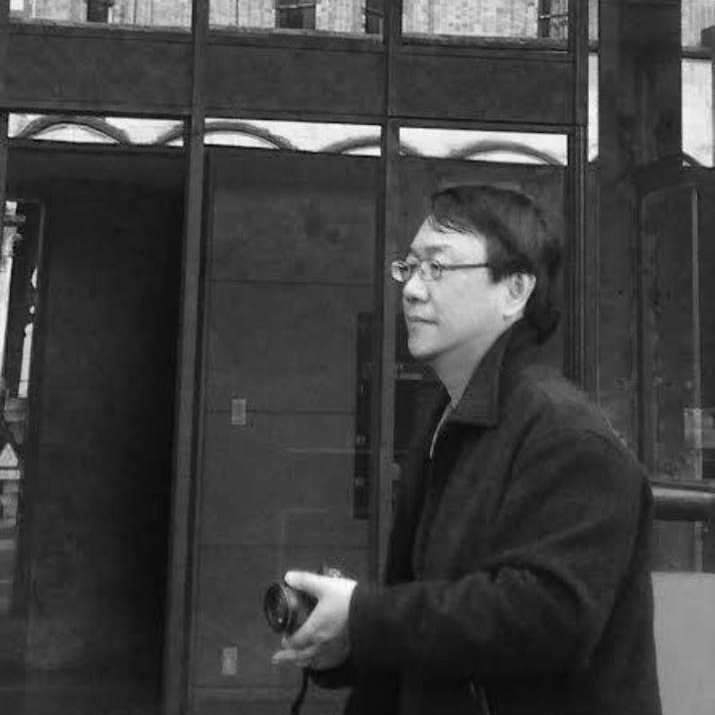
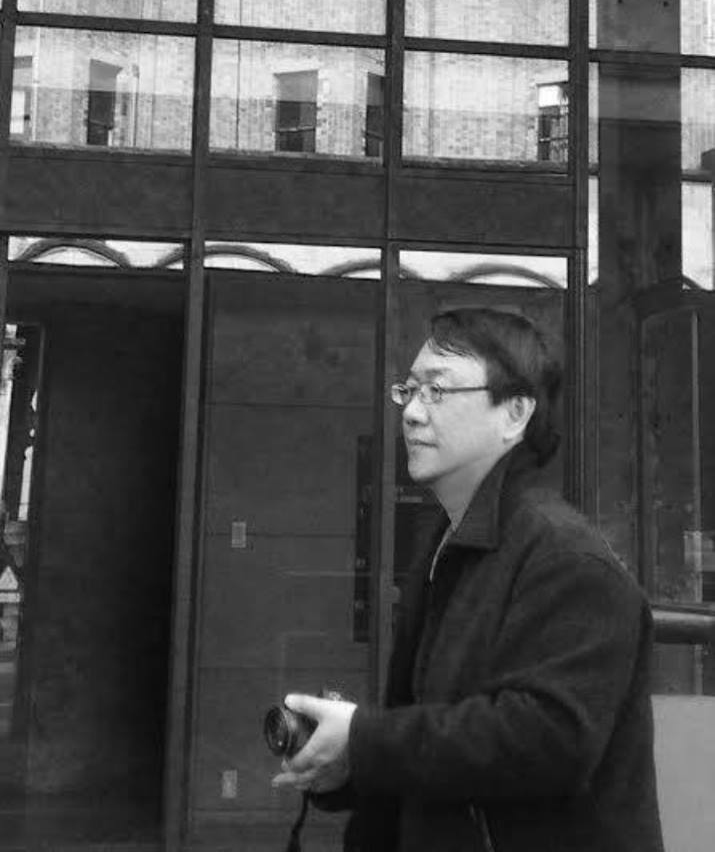
修改內容

diff --git a/index.html b/index.html
@@ -47,7 +47,7 @@
         <nav class="screen">
             <ul>
                 <li><a href="#index" title="" data-scroll>首頁</a></li>
-                <li><a href="#introduction" title="" data-scroll>作者與簡介</a></li>
+                <li><a href="#introduction" title="" data-scroll>關於作者</a></li>
                 <li><a href="#read" title="" data-scroll>章節試閱</a></li>
                 <li><a href="#buybook" title="" data-scroll>購買資訊</a></li>
             </ul>
@@ -78,12 +78,12 @@
         <div class="content">
             <div class="author">
                 <div class="w-100" id="introduction">
-                    <h4>－ 作者與簡介 －</h4>
+                    <h4>－ 關於作者 －</h4>
                 </div>
                 <div class="w-40">
                     <picture>
                         <!--[if IE 9]><video style="display: none;"><![endif]-->
-                        <source srcset="img/author-3.jpg" media="(min-width: 1100px)">
+                        <source srcset="img/author-2.jpg" media="(min-width: 1100px)">
                         <source srcset="img/author-2.jpg" media="(min-width: 640px)">
                         <source srcset="img/author-3.jpg" media="(min-width: 300px)">
                         <!--[if IE 9]></video><![endif]-->
@@ -94,8 +94,9 @@
                     <div class="author-word">
                         <h6>作者：顧秀賢</h6>
                         <p>資深新聞人（自立報系）、成教工作者（南島社區大學）、現居台東過日子。</p>
-                        <h6>書籍介紹</h6>
-                        <p>寫作，某種喻意，是門靈魂安頓的技藝。沒有臉書的塗鴉牆，大概就沒有這些自我療癒的隨筆。社群媒體無料使用，總想讓書寫稍微有料。</p>
+                        <h6>推薦序言</h6>
+                        <p><i>吳豪人 輔仁大學法律系副教授 －</i><br>這就是老顧為了教養主義的沒落，所作的最溫柔的復仇。一個人圍爐，卻留下普羅米修斯的智慧之火。</p>
+                        <p><i>張鐵志 知名文化與政治評論人 －</i><br>在這個新的喧鬧中，秀賢這本書更顯得極其特別。本書文章都不長、看似輕巧，但每篇都意味深遠,飽含思想靈光，讀來痛快。他寫西方作家和知識界的小故事，隨意信手捻來，又能扣連台灣現實，可見作者功力之深。</p>
                     </div>
                 </div>
             </div>
@@ -158,7 +159,7 @@
                         <p>書名：一個人的圍爐
                             <br> 作者：顧秀賢
                             <br> 定價：NT $ 320
-                            <br> 網路優惠價：8 折 免運費
+                            <br> 網路優惠價：8 折 免運費 (優惠至 2017.03.01)
                             <br> 郵撥：06463413 黃瑞玲
                             <br>
                     </div>
@@ -182,7 +183,7 @@
                 <button class="dl-trigger">Open Menu</button>
                 <ul class="dl-menu font-lucida-r">
                     <li><a href="#index" title="" data-scroll>首頁</a></li>
-                    <li><a href="#introduction" title="" data-scroll>作者與簡介</a></li>
+                    <li><a href="#introduction" title="" data-scroll>關於作者</a></li>
                     <li><a href="#read" title="" data-scroll>章節試閱</a></li>
                     <li><a href="#buybook" title="" data-scroll>購買資訊</a></li>
                 </ul>

diff --git a/less/book.less b/less/book.less
@@ -257,6 +257,9 @@ a {
                         width: 100%;
                         padding-bottom: 0.5em;  
                     }
+                    i {
+                        color: lighten(@blackC, 20%);
+                    }
                 }
             }
         }
@@ -292,6 +295,7 @@ a {
                     text-indent: 2em;
                     margin-bottom: 1em; 
                     text-align: justify;
+                    font-weight: normal;
                 }
             }
         }
